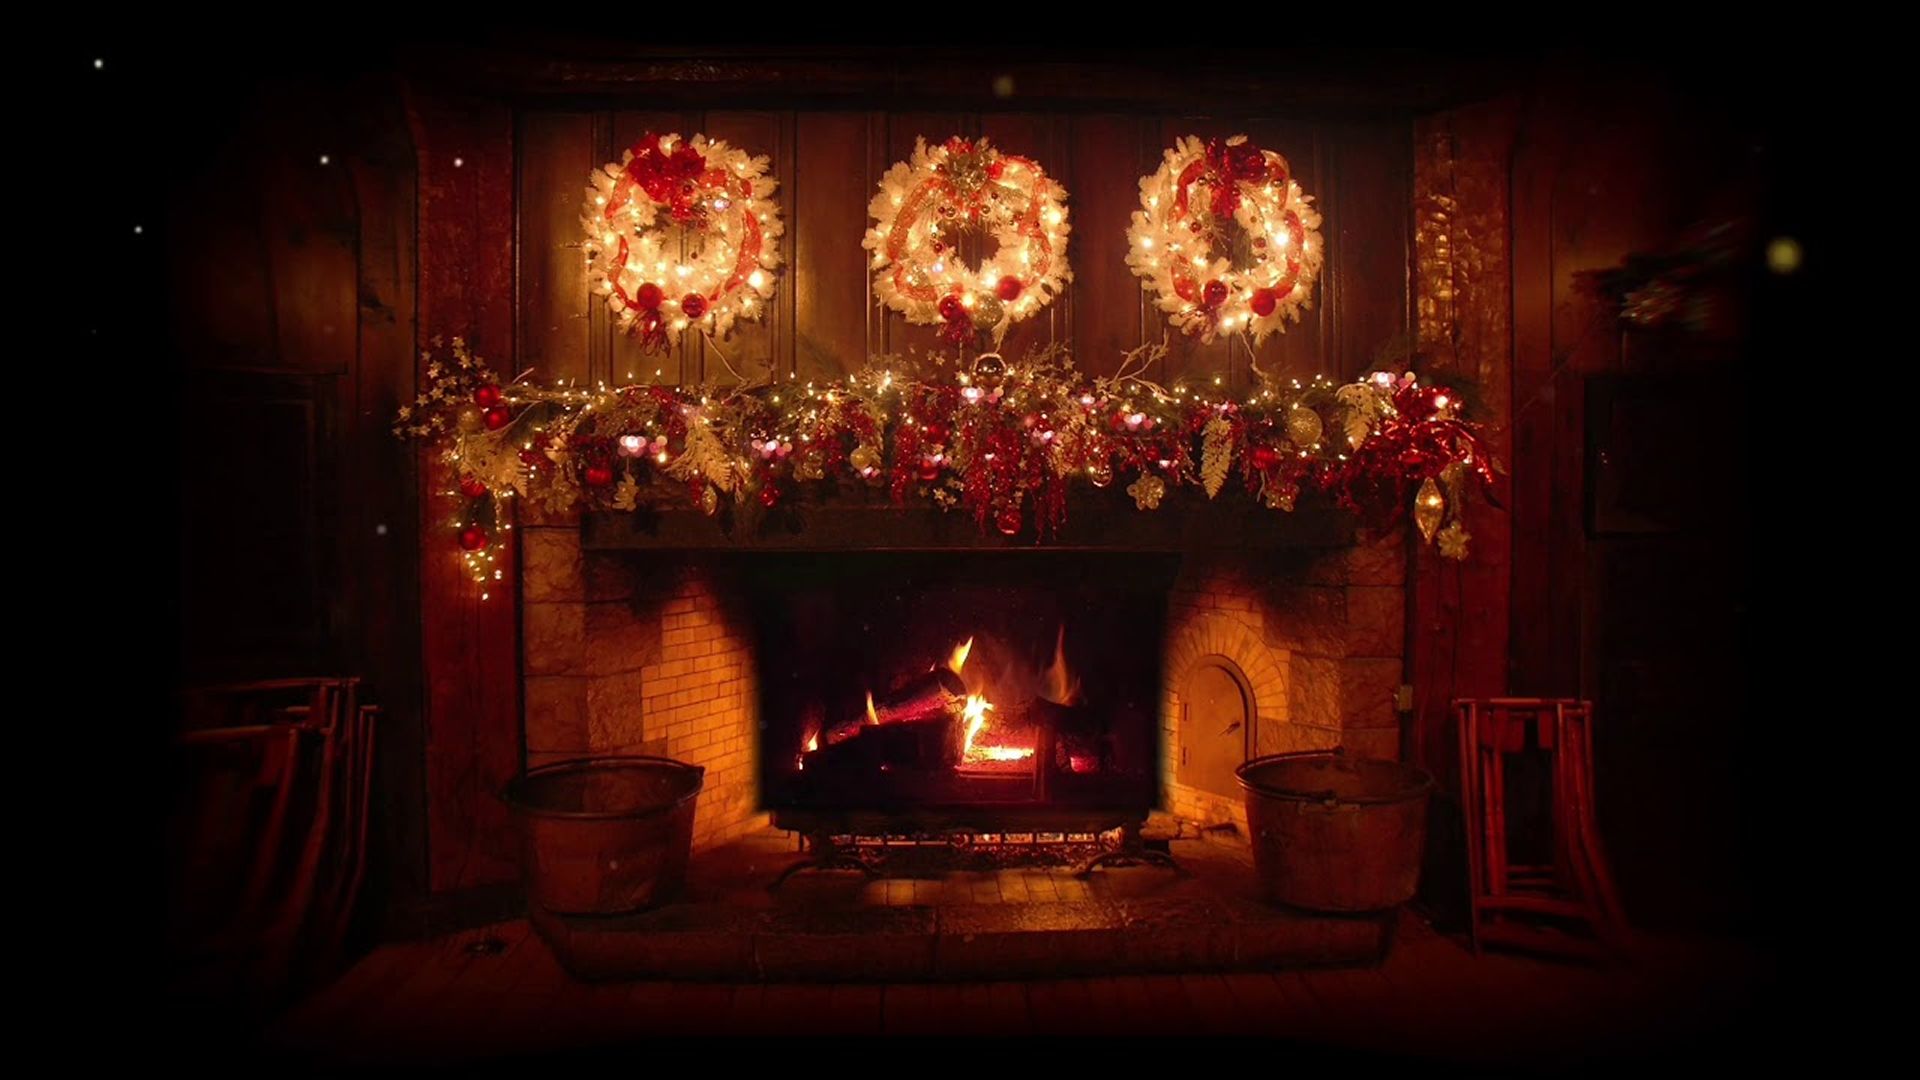
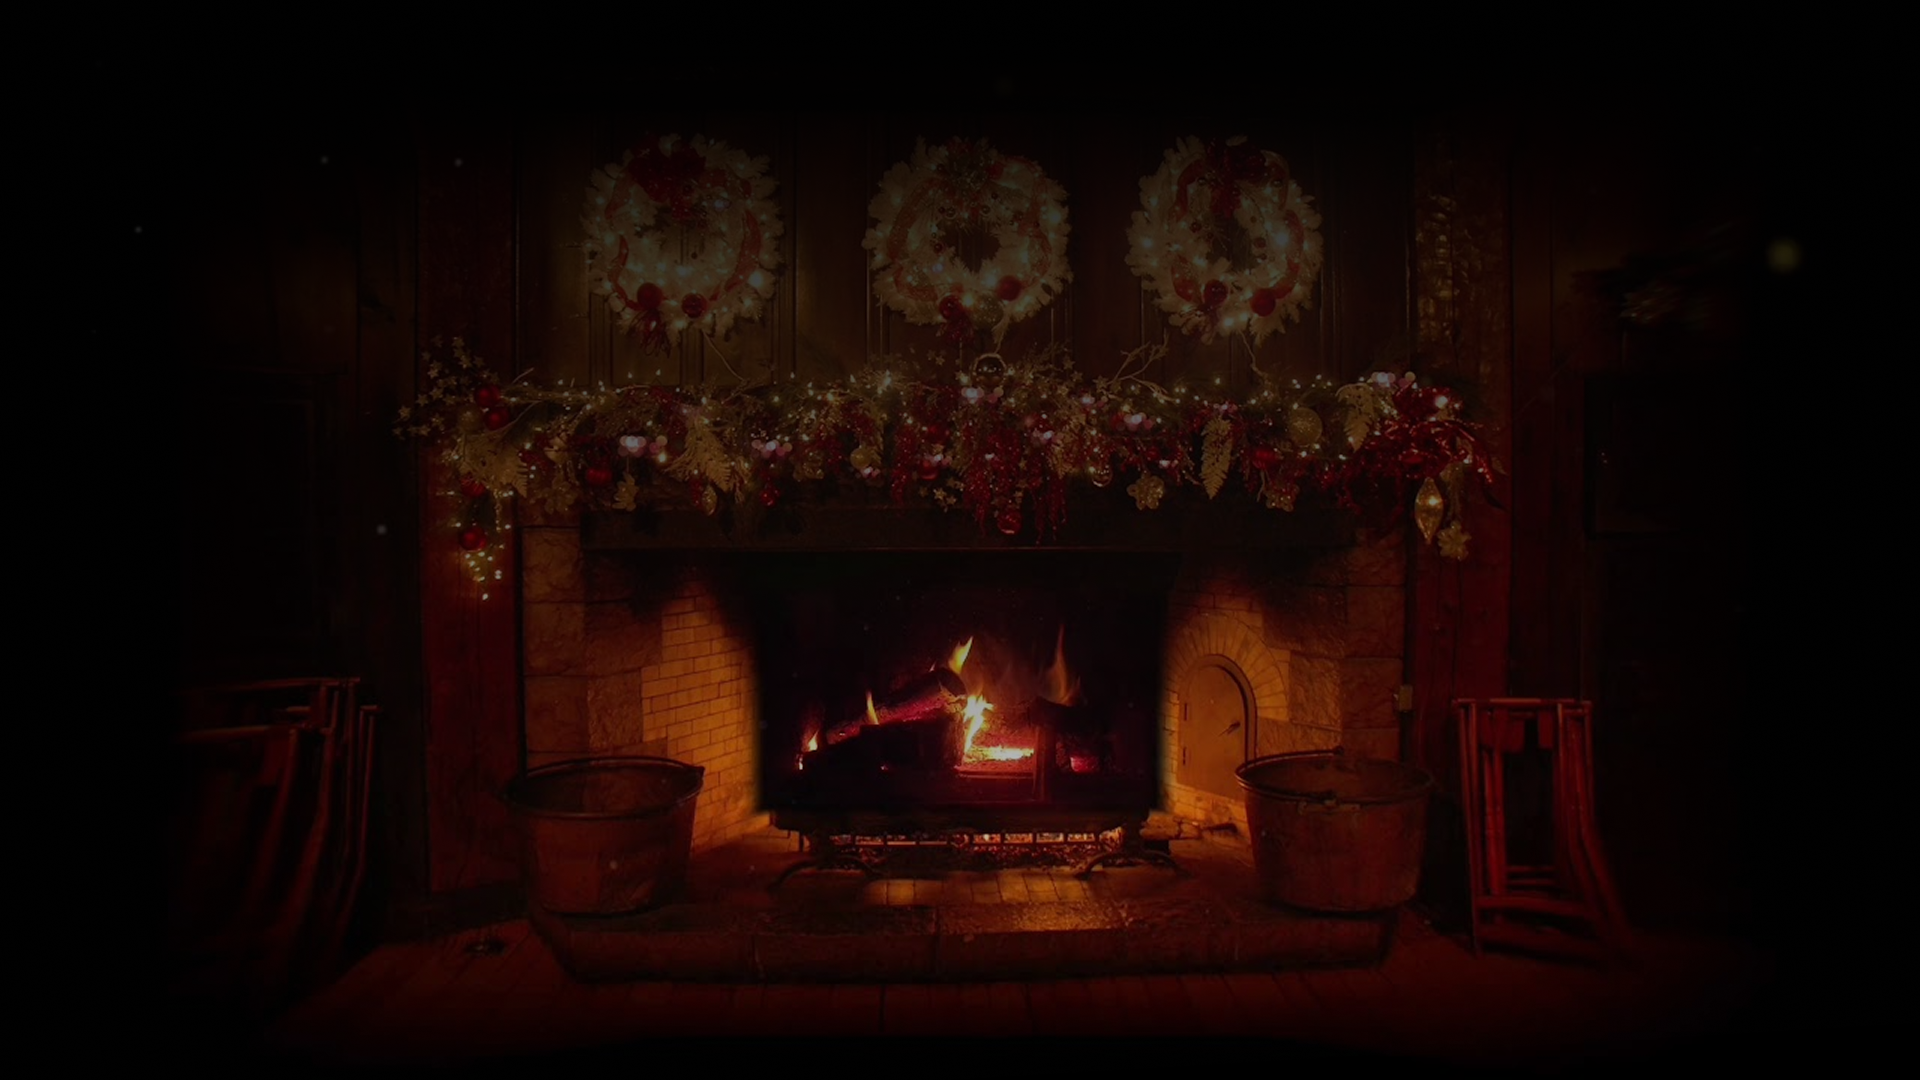
feat: финализирована первая версия лендинга (hero, how it works, preorder, form, footer)

diff --git a/src/components/FormSection.tsx b/src/components/FormSection.tsx
@@ -43,7 +43,7 @@ export function FormSection() {
     <section
       ref={ref}
       id="pre-order-form"
-      className="relative py-32 flex flex-col items-center justify-center text-center overflow-hidden"
+      className="relative min-h-screen flex items-center justify-center text-center overflow-hidden"
       style={{
         backgroundImage: `url(${fireplaceBg})`,
         backgroundSize: "cover",
@@ -51,31 +51,33 @@ export function FormSection() {
         backgroundRepeat: "no-repeat",
       }}
     >
-      {/* Затемняющий слой для читаемости */}
+      {/* затемнение для контраста */}
       <div className="absolute inset-0 bg-black/45 backdrop-blur-[1px]" />
 
-      {/* Основной контент */}
       <motion.div
-        className="relative z-10 w-full max-w-2xl px-6 md:px-12"
-        animate={{ opacity: isInView ? 1 : 0, y: isInView ? 0 : 50 }}
+        className="relative z-10 w-full max-w-lg px-6 md:px-10"
+        animate={{ opacity: isInView ? 1 : 0, y: isInView ? 0 : 60 }}
         transition={{ duration: 0.8, ease: "easeOut" }}
       >
         {!isSubmitted ? (
           <div
-            className="p-10 md:p-12 rounded-[36px] shadow-[0_8px_40px_rgba(0,0,0,0.6)]
+            className="p-14 md:p-16 rounded-[40px] mx-auto
               bg-[rgba(10,10,10,0.65)] backdrop-blur-2xl
-              border border-[rgba(255,255,255,0.08)]"
+              border border-[rgba(255,255,255,0.08)]
+              shadow-[0_0_50px_rgba(0,0,0,0.55)]
+              flex flex-col items-center gap-8"
           >
-            <h2 className="text-4xl md:text-5xl font-extrabold mb-4 text-white">
+            <h2 className="text-4xl md:text-5xl font-extrabold mb-4 text-white leading-tight">
               Присоединиться к предзаказу
             </h2>
-            <p className="text-lg mb-10 leading-relaxed text-[#FFF4E6]">
+
+            <p className="text-lg leading-relaxed text-[#FFF4E6] max-w-sm mb-4">
               Будьте среди первых, кто получит свою Лего-пару
             </p>
 
             <form
               onSubmit={handleSubmit}
-              className="flex flex-col gap-6 max-w-md mx-auto"
+              className="flex flex-col gap-7 w-full max-w-sm"
             >
               <input
                 type="text"
@@ -85,8 +87,8 @@ export function FormSection() {
                   setFormData({ ...formData, name: e.target.value })
                 }
                 required
-                className="w-full px-5 py-3.5 rounded-xl text-base 
-                  bg-white/15 border border-white/30 text-white 
+                className="w-full px-6 py-4 rounded-xl text-base 
+                  bg-white/15 border border-white/25 text-white 
                   placeholder-white/70 focus:outline-none 
                   focus:ring-2 focus:ring-[#FFD479]/60 focus:bg-white/25 
                   transition-all"
@@ -100,8 +102,8 @@ export function FormSection() {
                   setFormData({ ...formData, contact: e.target.value })
                 }
                 required
-                className="w-full px-5 py-3.5 rounded-xl text-base 
-                  bg-white/15 border border-white/30 text-white 
+                className="w-full px-6 py-4 rounded-xl text-base 
+                  bg-white/15 border border-white/25 text-white 
                   placeholder-white/70 focus:outline-none 
                   focus:ring-2 focus:ring-[#FFD479]/60 focus:bg-white/25 
                   transition-all"
@@ -112,31 +114,46 @@ export function FormSection() {
                 whileTap={{ scale: 0.96 }}
                 type="submit"
                 disabled={isSubmitting}
-                className="rounded-full font-semibold text-lg px-10 py-4 transition-all duration-300 w-full
+                className="mt-6 rounded-full font-semibold text-lg px-10 py-4 
                   text-[#050300]
                   bg-gradient-to-b from-[#FFD479] to-[#E9C46A]
                   shadow-[0_0_25px_rgba(255,212,121,0.45)]
-                  hover:shadow-[0_0_45px_rgba(255,212,121,0.6)]"
+                  hover:shadow-[0_0_45px_rgba(255,212,121,0.6)]
+                  transition-all duration-300"
               >
                 {isSubmitting ? "Отправка..." : "Отправить заявку"}
               </motion.button>
             </form>
           </div>
         ) : (
-          <motion.div
-            initial={{ opacity: 0, scale: 0.9 }}
-            animate={{ opacity: 1, scale: 1 }}
-            transition={{ duration: 0.6 }}
-            className="p-12 rounded-[36px] bg-[rgba(255,255,255,0.1)] backdrop-blur-2xl border border-[rgba(255,255,255,0.2)] shadow-[0_8px_40px_rgba(0,0,0,0.6)]"
-          >
-            <h2 className="text-3xl md:text-4xl font-semibold mb-3 text-white">
-              Спасибо за заявку!
-            </h2>
-            <p className="text-lg leading-relaxed text-[#FFF4E6]">
-              Мы свяжемся с вами в течение 24 часов.  
-              Спасибо, что выбрали <strong>Brick Couple 💛</strong>
-            </p>
-          </motion.div>
+<motion.div
+  initial={{ opacity: 0, scale: 0.9 }}
+  animate={{ opacity: 1, scale: 1 }}
+  transition={{ duration: 0.6 }}
+  className="p-14 md:p-16 rounded-[40px] 
+    bg-[rgba(10,10,10,0.65)] backdrop-blur-2xl 
+    border border-[rgba(255,255,255,0.08)]
+    shadow-[0_0_50px_rgba(0,0,0,0.55)]
+    flex flex-col items-center text-center
+    max-w-2xl mx-auto break-words"
+>
+  <h2 className="text-3xl md:text-4xl font-extrabold text-white mb-8 leading-tight whitespace-nowrap">
+    Спасибо за заявку!
+  </h2>
+
+  <p className="text-lg md:text-xl leading-relaxed text-[#FFF4E6] whitespace-pre-line">
+    Мы свяжемся с вами{"\n"}
+    в течение <span className="font-semibold text-white">24 часов</span>
+    {"\n\n"}
+    Спасибо, что выбрали{"\n"}
+    <strong className="text-white">Brick Couple</strong> <span className="text-[#FFD479]">💛</span>
+  </p>
+</motion.div>
+
+
+
+
+
         )}
       </motion.div>
     </section>

diff --git a/src/components/PreOrderSection.tsx b/src/components/PreOrderSection.tsx
@@ -1,4 +1,4 @@
-import React from "react";
+ import React from "react";
 
 interface PreOrderSectionProps {
   onPreOrderClick?: () => void;
@@ -7,51 +7,40 @@ interface PreOrderSectionProps {
 const PreOrderSection: React.FC<PreOrderSectionProps> = ({ onPreOrderClick }) => {
   return (
     <section
-      className="relative bg-[#050300] text-white py-28 md:py-36 text-center overflow-hidden"
+      className="relative bg-[#050300] text-white min-h-screen flex flex-col items-center justify-center text-center overflow-hidden pt-[22vh] pb-[15vh]"
     >
-      {/* Мягкий затемняющий слой */}
-      <div className="absolute inset-0 bg-black/20" />
+      {/* Затемнение */}
+      <div className="absolute inset-0 bg-black/30" />
 
-      <div className="relative z-10 container mx-auto px-6 md:px-12">
+      <div className="relative z-10 container mx-auto px-6 md:px-12 flex flex-col items-center">
         {/* Заголовок */}
-        <div className="mb-20">
-          <h2 className="text-4xl md:text-5xl font-extrabold mb-4 leading-tight">
-            Ограниченный предзаказ
-          </h2>
-          <p className="text-[#FFF4E6] text-lg md:text-xl leading-relaxed">
+        <h2 className="text-5xl md:text-6xl font-extrabold mb-20 leading-tight">
+          Ограниченный предзаказ
+        </h2>
+
+        {/* Карточка */}
+        <div
+          className="relative max-w-xl w-full p-12 md:p-14 rounded-[36px]
+          bg-[rgba(10,10,10,0.65)] backdrop-blur-2xl
+          border border-[rgba(255,255,255,0.08)]
+          shadow-[0_0_60px_rgba(0,0,0,0.45)]
+          flex flex-col items-center text-center"
+        >
+          {/* Текст */}
+          <p className="text-[#FFF4E6] text-lg md:text-xl mb-14 max-w-md leading-relaxed">
             Предзаказы открыты до{" "}
-            <span className="text-[#FFD479] font-semibold">
-              31 декабря 2025 года
-            </span>
-            . Всего{" "}
+            <span className="text-white font-semibold">31 декабря 2025 года</span>.
+            Всего{" "}
             <span className="text-[#FFD479] font-semibold">50 наборов</span>.
           </p>
-        </div>
 
-        {/* Основная карточка */}
-        <div
-          className="relative inline-block max-w-xl w-full p-10 md:p-12 rounded-[36px] 
-          bg-[rgba(10,10,10,0.65)] backdrop-blur-2xl 
-          border border-[rgba(255,255,255,0.08)] 
-          shadow-[0_0_40px_rgba(0,0,0,0.4)] 
-          hover:shadow-[0_0_60px_rgba(255,212,121,0.15)]
-          transition-all duration-500"
-        >
-          <h3 className="text-2xl font-semibold mb-6">
-            Станьте одним из первых
-          </h3>
-
-          <p className="text-[#FFF4E6] text-base md:text-lg leading-relaxed mb-10">
-            Количество мест ограничено. Забронируйте свой набор сейчас и получите
-            уникальный подарок, созданный специально для вас.
-          </p>
-
+          {/* Кнопка */}
           <button
             onClick={onPreOrderClick}
-            className="px-10 py-4 text-[#050300] text-lg font-semibold rounded-full
+            className="mt-6 px-12 py-4 text-[#050300] text-lg font-semibold rounded-full
               bg-gradient-to-b from-[#FFD479] to-[#E9C46A]
-              shadow-[0_0_25px_rgba(255,212,121,0.4)]
-              hover:shadow-[0_0_45px_rgba(255,212,121,0.6)]
+              shadow-[0_0_30px_rgba(255,212,121,0.4)]
+              hover:shadow-[0_0_60px_rgba(255,212,121,0.6)]
               hover:scale-[1.03]
               transition-all duration-300"
           >

diff --git a/src/components/HeroSection.tsx b/src/components/HeroSection.tsx
@@ -1,20 +1,23 @@
 import React from "react";
-import heroBg from "../assets/Hero_BG.png";
 import ornament from "../assets/игрушка.png";
 
 interface HeroSectionProps {
   onPreOrderClick?: () => void;
+  onLearnMoreClick?: () => void;
 }
 
-const HeroSection: React.FC<HeroSectionProps> = ({ onPreOrderClick }) => {
+const HeroSection: React.FC<HeroSectionProps> = ({
+  onPreOrderClick,
+  onLearnMoreClick,
+}) => {
   return (
     <section
       className="relative flex flex-col md:flex-row items-center justify-center min-h-screen px-6 md:px-16 overflow-hidden"
+      style={{ paddingTop: "5vh" }}
     >
-      {/* ТЁМНЫЙ ОВЕРЛЕЙ */}
       <div className="absolute inset-0 bg-black/25" />
 
-      <div className="relative z-10 flex flex-col md:flex-row items-center justify-between gap-10 md:gap-20">
+      <div className="relative z-10 flex flex-col md:flex-row items-center justify-between gap-10 md:gap-20 w-full max-w-7xl mx-auto">
         {/* ТЕКСТОВОЙ БЛОК */}
         <div
           className="max-w-lg md:max-w-2xl p-10 md:p-12 rounded-[36px] shadow-[0_8px_50px_rgba(0,0,0,0.5)]"
@@ -29,11 +32,12 @@ const HeroSection: React.FC<HeroSectionProps> = ({ onPreOrderClick }) => {
             Лего-пару по фото
           </h1>
 
-          <p className="text-[#FFF4E6] text-base md:text-xl leading-relaxed mb-10">
+          <p className="text-[#FFF4E6] text-base md:text-xl leading-relaxed mb-12">
             Вы присылаете фото, мы собираем <br /> с теплом и вниманием
           </p>
 
-          <div className="flex flex-wrap gap-5">
+          {/* КНОПКИ */}
+          <div className="flex flex-wrap gap-5 mt-4">
             <button
               onClick={onPreOrderClick}
               className="px-10 py-4 text-[#050300] text-lg font-semibold rounded-full
@@ -47,6 +51,7 @@ const HeroSection: React.FC<HeroSectionProps> = ({ onPreOrderClick }) => {
             </button>
 
             <button
+              onClick={onLearnMoreClick}
               className="px-10 py-4 text-[#FFF4E6] text-lg font-medium rounded-full
               bg-white/10 border border-white/20
               hover:bg-white/20 hover:scale-[1.03]
@@ -58,11 +63,13 @@ const HeroSection: React.FC<HeroSectionProps> = ({ onPreOrderClick }) => {
         </div>
 
         {/* ИЗОБРАЖЕНИЕ ШАРА */}
-        <div className="flex justify-center md:justify-end">
+        <div className="flex justify-center md:justify-end relative">
           <img
             src={ornament}
             alt="Лего-пара в шаре"
-            className="w-[300px] sm:w-[400px] md:w-[520px] drop-shadow-[0_0_40px_rgba(255,212,121,0.4)]"
+            className="w-[300px] sm:w-[400px] md:w-[520px]
+                       drop-shadow-[0_0_40px_rgba(255,212,121,0.4)]
+                       relative -top-12 md:-top-20"
           />
         </div>
       </div>

diff --git a/src/App.tsx b/src/App.tsx
@@ -1,16 +1,26 @@
 import HeroSection from "./components/HeroSection";
 import HowItWorksSection from "./components/HowItWorksSection";
 import PreOrderSection from "./components/PreOrderSection";
+import { FormSection } from "./components/FormSection";
 import Footer from "./components/Footer";
-import heroBg from "./assets/Hero_BG.png";
-import howItWorksBg from "./assets/HowItWorks_BG.png";
+
+import fullBg from "./assets/FULL_BG.png"; // ✅ Новый единый фон
 import "./global.css";
 
 export default function App() {
+  // 🔸 Прокрутка к форме предзаказа
   const handlePreOrderClick = () => {
     const formSection = document.getElementById("pre-order-form");
     if (formSection) {
       formSection.scrollIntoView({ behavior: "smooth" });
+    }
+  };
+
+  // 🔸 Прокрутка к блоку "Как это работает"
+  const handleLearnMoreClick = () => {
+    const howItWorksSection = document.getElementById("how-it-works");
+    if (howItWorksSection) {
+      howItWorksSection.scrollIntoView({ behavior: "smooth" });
     }
   };
 
@@ -19,17 +29,26 @@ export default function App() {
       {/* 🎄 Единый фон для Hero + HowItWorks */}
       <div
         style={{
-          backgroundImage: `url(${heroBg}), url(${howItWorksBg})`,
-          backgroundPosition: "center top, center 110vh", // подгоняем так, чтобы низ первой совпадал с верхом второй
-          backgroundSize: "cover, cover",
-          backgroundRepeat: "no-repeat, no-repeat",
+          backgroundImage: `url(${fullBg})`,
+          backgroundSize: "cover",
+          backgroundPosition: "center top",
+          backgroundRepeat: "no-repeat",
         }}
       >
-        <HeroSection onPreOrderClick={handlePreOrderClick} />
+        <HeroSection
+          onPreOrderClick={handlePreOrderClick}
+          onLearnMoreClick={handleLearnMoreClick}
+        />
         <HowItWorksSection />
       </div>
 
+      {/* 🧱 Блок "Ограниченный предзаказ" */}
       <PreOrderSection onPreOrderClick={handlePreOrderClick} />
+
+      {/* 📝 Форма предзаказа */}
+      <FormSection />
+
+      {/* ⚙ Футер */}
       <Footer />
     </div>
   );

diff --git a/src/components/HowItWorksSection.tsx b/src/components/HowItWorksSection.tsx
@@ -21,9 +21,12 @@ const steps = [
 
 const HowItWorksSection: React.FC = () => {
   return (
-    <section
-      className="relative py-24 px-6 md:px-16 flex flex-col items-center justify-center overflow-hidden"
-    >
+<section
+  id="how-it-works"
+  className="relative min-h-screen flex flex-col items-center justify-center px-6 md:px-16 overflow-hidden"
+>
+
+
       {/* Оверлей для затемнения */}
       <div className="absolute inset-0 bg-black/25" />
 
